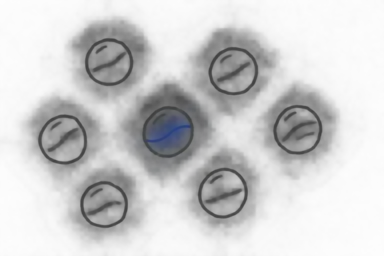
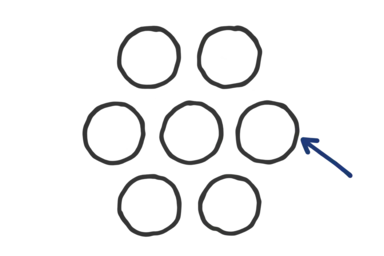
ビー玉の数と線画を整える

diff --git a/drafts/memo-sketches/README.md b/drafts/memo-sketches/README.md
@@ -5,7 +5,7 @@
 ## 生成・軽量化の記録
 
 - 生成: 組み込み画像生成ツールで、上記シャッター絵をスタイル参照にした透過背景の線画を題材ごとに生成。黒灰色の少し不揃いな線、必要に応じて控えめな青いペン、文字・紙・枠なしを指定。各題材は下表の異変台帳 `prompts/anomalies.yaml` の `detail` に対応する。
-- 個別の修正: ビー玉は初回生成が8個だったため、画像生成ツールで1個を取り除いて台帳どおり7個に修正した。
+- 個別の修正: ビー玉は初回生成が8個で、1個を取り除いた編集にはにじみが残ったため、画像生成ツールで2・3・2個に分けた7個の線画を描き直した。
 - 保存: 縦横比を維持し、長辺が384pxを超える生成画像だけ384px以下に縮小。透過を保持したWebP（ImageMagick `magick <生成PNG> -resize '384x384>' -quality 75 <異変ID>.webp`）。`-quality 75` は非可逆WebPの品質設定で、元画像が無劣化で残るという意味ではない。
 - 検討: 猫の384pxの無劣化WebPと品質75版を紙色の背景に並べて目視比較し、線の見え方を保ちつつ約18KBから約10KBに低減した。紙面への最終表示サイズは未確定なので、ゲーム接続時に実表示でも確認し、必要なら生成元から調整する。
 - 生成元のPNGは開発環境の画像生成ディレクトリに置かれた一時的な原本で、このリポジトリには含めていない。長期的な正本はこのディレクトリのWebP。元PNGの永続保存は保証しない。
